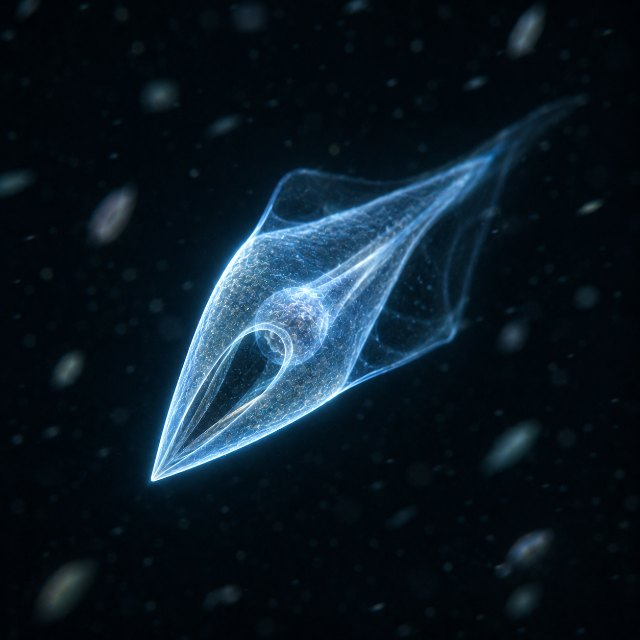
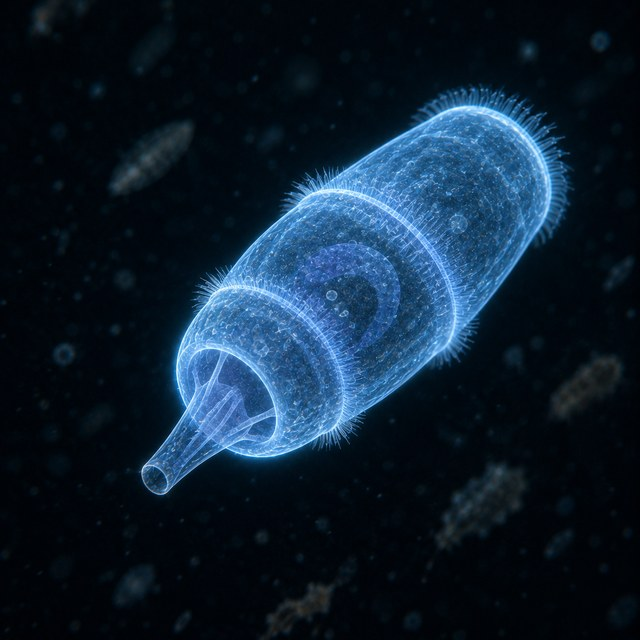
GR.4 complete: the Didinium portrait ships; the graphics phase closes
The owner's 1254px original cropped and resized to the house 640x640 JPG
at assets/species/venator.jpg (original moved to the gitignored full/);
the boot gate decodes it from the bundled assets. Plan record and
CLAUDE.md carry the phase closure: GR.1-GR.3 all owner-accepted on the
device. Watch items recorded: device budget read-out, far-zoom mat
blockiness verdict.

Claude-Session: https://claude.ai/code/session_015oiW648bgMgzYtuiSvWZ49

diff --git a/CLAUDE.md b/CLAUDE.md
@@ -89,7 +89,7 @@ Small increments, each confirmed before the next. State contradictions and trade
 - **Phase 8.9–8.12 — the ladder completed: L8, L9, L11, L12 shipped; L10 folded (2026-09-01)**: the whole batch calibrated ON THE LEVEL MACHINERY after the gate convicted raw-stream pins twice — that is now the standing calibration rule for levels. **L9 The Sorting** (first evolving-world level; the pack-pressure design died twice — crash-grazing sweeps FAST or nowhere, the null self-sorts by ~22k — rebuilt around the armor-price lever: kp under its balance mark sweeps tough 10.3–12.8k vs deadline 18k; wrong lever = mutation OFF, flat 18k; two overturned pins recorded as findings: extra grazing is stream-chaotic and hand-feeding the tough IS artificial selection, 0.92/100%). **L8 The Warm Year** (ramped +5 sun bills the APEX first; the spec's cold-refuge rescue is measured dead — every grazer death traces to the FED apex, not the heat; shipped as the husbandry-dosage lesson: feed lightly 900/0.2 → both hold, PASS @10.8k; feed hard 300/0.3 → the pack eats the middle; cold-alone and pours fail). **L11 The Refuge** (three scripted mesh-pen sides at t=600, the player clears then closes the fourth — clean-close is airtight 3/3 seeds, penned C exactly 0; closed dirty it is a PERMANENT self-sustaining feedlot 4/4, a lobster trap; the spurious refuge-emptied latch was removed after it convicted itself — sustain-150 carries robustness; the only fully seed-robust level of the batch). **L12 Outrun the Sun** (the capstone re-pinned one trophic level up: at +8 CILIO dies in ~800 ticks and nothing rescues — MV.1's numbers are stale; at +6 the null loses the core 4/4 and CILIO's warmth-preference σ 0.12 raised before the press rescues 3/4; pinned seed 11: σ early passes at ALL pre-press timings, σ after the heatTrap fires fails @7.1k). **L10 folded** per the ladder's own cut line: asymmetric grazing no longer separates patches on the movement-genome core (MV.2 restlessness — gene flow beats patch selection); finding + re-entry condition in the ladder doc. Machinery added for the batch (both cores): `world.mutation`, metrics `ch`/`share`/`at`, script events `sourceSet`/`wallAdd`/`spawnPack`. All records: phase8-levels-plan.md §3.
 - **Owner round 4 (2026-09-02, both reproduced before repair)**: the **world-boundary seam** — per-tile drawBitmap clamped bilinear filtering at tile edges (and the 4x field prescale clamped the same way), a 2.4x pixel-difference spike where the wrap crossed the screen; fixed with REPEAT BitmapShaders at both levels (painting only, frame.rs untouched), gated by `WorldSeamTest` (negative-tested: convicts old at 2.42x, passes fix at 1.03x; the browser keeps the same clamp seam as the renderer's frozen oracle, recorded not patched). And **experiments now save**: snapshot format v2 carries the level runtime (keyed by level NAME; census ring stored, rg_def derived via the factored `collect_regions`; v1 files still load, as sandbox), proved in the extended `port:snapshot` (L7 saved mid-run resumes bit-identically across its deadline verdict; re-save byte-identical); the U0.6 "levels are never autosaved" decision is REVERSED (it existed only because the snapshot lied) — experiments autosave to their own `experiment.mcsm` (the kept sandbox pond can never be clobbered), boot prefers it, the shell adopts whatever a load carries (`adoptCoreLevel`, also fixing lost experiment context on activity recreation), and the front door grew a "continue the experiment" row. Core baseline rebound (declared, fingerprints bit-identical ×4). Record: app-ux-design-plan.md §11.
 - **TH — experiment-menu thumbnails (owner request, shipped 2026-09-02)**: one gameplay-captured picture per level on BOTH menus. `tools/level-thumbs.js` (`npm run thumbs`) plays each level through the real browser UI (playthrough-style: dev server + headless Chromium + genuine pan/zoom gestures) and photographs a curated moment per a per-level shot spec — tick, world point, zoom, and scripted acts where the actor is absent from the null run (L5 seeds Cilio, L6 the Venator pack with hatch time). `actor:` specs are exact: the level run is deterministic, so the tool replays it headlessly to the paused tick (levelStart+levelScript+step) and centres on the species' densest cluster. One committed home `assets/levels/<key>.jpg` feeds the APK (Profiles.levelThumb + PortraitView row) and the artifact (generated `src/ui-thumbs.js` data URIs, +67 KB). Missing file = no picture, never a placeholder. Conformance bit-identical; boot gate requires a laid-out thumbnail in the experiments panel. Not bit-reproducible between runs (live render loop) — a curation tool, not a gate. Record: app-ux-design-plan.md §12.
-- **GR — organism graphics (research → plan → GR.1–GR.3 shipped, 2026-09-02)**: docs/organism-graphics-research.md (four techniques weighed against the frame-grammar contract; owner verdicts: textures yes, zoom-LOD yes, low poly and clock animation no; darkfield stays) + docs/organism-graphics-plan.md + the probe `dev/graphics-probe/stilproben.html` (four rounds, the design record). All painting-tier, app-only, fingerprint-frame untouched by construction. **GR.1** Venator = *Didinium nasutum* (researched §10 — the real twin of the Venator–Cilio pair; barrel, rod-palisade proboscis, two pectinelle girdles, band macronucleus; Ghost Ray retired from the app, browser oracle keeps it) — owner-accepted on device. **GR.2** micrograph sprite bakes (membrane/nucleus/vacuoles; defense = spines, feeding reshapes at constant area) + `SpriteSheetTest`, which convicted twice before its first green (invisible Bacillus dial; rods merged in its first photograph) — owner-accepted on device. **GR.3** zoom ladder (crisp vector overlay over the blit above 28 CSS px; carpet cells above zoom 2, coloured from the core's own field pixels so ramp + light-locus turn survive by construction; hash layout, zero PRNG) + `WorldCameraTest` photographing the real world at three zooms in CI. Owed: device budget numbers (§1.3), far-zoom mat-blockiness verdict, the Didinium portrait file (owner has the image; it must land as `assets/species/venator.jpg`). Per-individual variation stays a declared grammar change (id field), recorded in plan §3.
+- **GR — organism graphics (research → plan → GR.1–GR.3 shipped, 2026-09-02)**: docs/organism-graphics-research.md (four techniques weighed against the frame-grammar contract; owner verdicts: textures yes, zoom-LOD yes, low poly and clock animation no; darkfield stays) + docs/organism-graphics-plan.md + the probe `dev/graphics-probe/stilproben.html` (four rounds, the design record). All painting-tier, app-only, fingerprint-frame untouched by construction. **GR.1** Venator = *Didinium nasutum* (researched §10 — the real twin of the Venator–Cilio pair; barrel, rod-palisade proboscis, two pectinelle girdles, band macronucleus; Ghost Ray retired from the app, browser oracle keeps it) — owner-accepted on device. **GR.2** micrograph sprite bakes (membrane/nucleus/vacuoles; defense = spines, feeding reshapes at constant area) + `SpriteSheetTest`, which convicted twice before its first green (invisible Bacillus dial; rods merged in its first photograph) — owner-accepted on device. **GR.3** zoom ladder (crisp vector overlay over the blit above 28 CSS px; carpet cells above zoom 2, coloured from the core's own field pixels so ramp + light-locus turn survive by construction; hash layout, zero PRNG) + `WorldCameraTest` photographing the real world at three zooms in CI. **GR.4 closed the phase (2026-09-02)**: all three increments owner-accepted on the device (GR.1 "sieht super aus", GR.2+GR.3 "very good"); the owner's Didinium portrait shipped as `assets/species/venator.jpg` (640², original in gitignored `full/`), boot-gate-decoded. Watch items, not blockers: device budget numbers never read out (no jank reported), far-zoom mat blockiness (UP=4 diagnostic) awaits an explicit verdict. Per-individual variation stays a declared grammar change (id field), recorded in plan §3.
 - **Next (owner order)**: the ladder's shipped set is L1–L9, L11, L12 (L10 folded — its content awaits an L9 twist run once F3 builds). Playthrough paths exist for L7 and L9; L8/L11/L12 paths queued (wall drawing, feed cadence and σ sliders need gesture scripting). Deferred with re-entry conditions: F3 post-pass twists, F6 A/B memory, L10's geometry (a wall between the shores). All player text obeys phase8-language-style.md and, in German, phase8-language-style-de.md (both enforced in npm test). Also queued: post-phase Yoshida study, third loci where a question warrants them, a split-detector once a split is observed in a shipped world; Mycora/Necro re-entry conditions unchanged.
 - **(was) Next: Solara light-adaptation locus** (shade-tolerant ↔ sun-loving; factor `1 + s·(g−g0)·(1−2L)` inside the photosynthesis block, priced by the light field — the sun lever becomes a selection pressure), then **Bacillus rate–yield** (voracious ↔ frugal; `rateE` up, `effE` down). Each its own declared change: expression at existing draw sites only; `silent` fingerprint identical; price by measured surface before shipping; re-accept with tune2 + corridor (16 corners) + gate5. Then multi-locus (`W.g[k*MAXN+i]`, per-locus channels, shape/outline encoding). Venator stays excluded (decision 3).
 

diff --git a/docs/organism-graphics-plan.md b/docs/organism-graphics-plan.md
@@ -77,10 +77,18 @@ cost at mid zoom and carpet cell cost; both against the §1.3 budget, with the r
 Record (2026-09-02): the owner generated the Didinium portrait to the new prompt and
 pasted it into the session — where it arrived as conversation content only, no file on
 disk, so it could not be committed from here (recorded honestly rather than
-approximated). It lands via the documented portrait workflow: full-size original under
-`assets/species/full/` (local, gitignored), 640×640 JPG as `assets/species/venator.jpg`.
-CLAUDE.md status line written. The probe stays in `dev/graphics-probe/` as the phase's
-design record.
+approximated). The owner then committed the original (1254×1254 PNG); it was cropped and
+resized to the house 640×640 JPG as `assets/species/venator.jpg`, the original moved to
+the gitignored `assets/species/full/`, and the boot gate confirms the portrait decodes
+from the bundled assets. CLAUDE.md status line written. The probe stays in
+`dev/graphics-probe/` as the phase's design record.
+
+**Phase closure (2026-09-02)**: GR.1 ("sieht super aus"), GR.2 and GR.3 ("gr2+3 are
+very good") all owner-accepted on the device; the portrait shipped. Still open, carried
+as watch items rather than blockers: the §1.3 budget numbers from the device telemetry
+were never read out (no jank was reported at any zoom), and the far-zoom mat blockiness
+diagnostic (`Layers.kt` UP=4) awaits an explicit far-zoom verdict. Re-entry conditions
+for everything deliberately not built are in §3.
 
 Portrait prompt already updated (GR.1); the owner regenerates `assets/species/venator.jpg`
 when convenient (the card hides the slot meanwhile if removed). CLAUDE.md status line,
